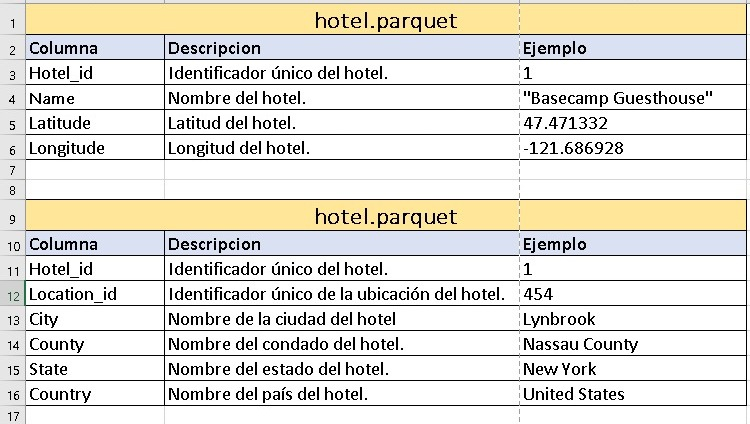
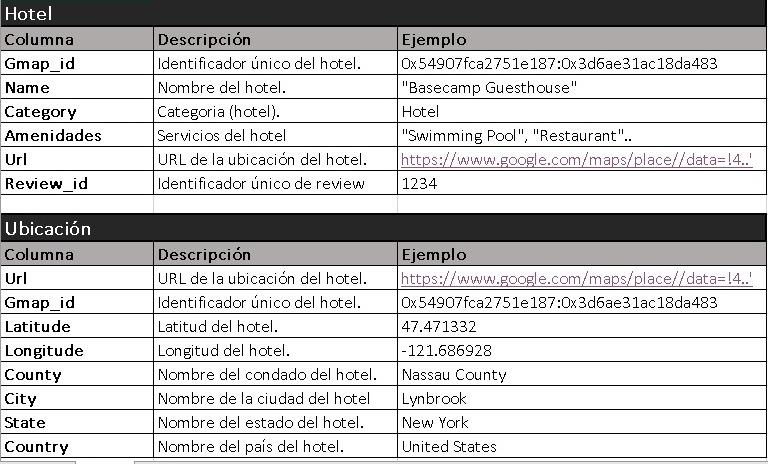
agregar imagenes

diff --git a/README.md b/README.md
@@ -382,17 +382,78 @@ Calcular el Índice de Delitos por Área (IDA) mediante la fórmula proporcionad
 
 El Índice de Delitos por Área (IDA) proporciona una medida relativa de la seguridad en una zona geográfica específica al evaluar la incidencia de delitos en relación con la población total de la zona. Esta métrica es valiosa para que los usuarios puedan tomar decisiones informadas al seleccionar su alojamiento, al proporcionar una perspectiva sobre la seguridad en diferentes áreas.
 
+## **Diccionario de datos**
 
-## Modelo de datos
+---
+
+![wink](imagenes\diccionario.jpeg)
+![wink](imagenes\diccionario2.jpeg)
+
+### Detallado
+
+Hotel:
+
+- Gmap_id (PK): Identificador único del hotel.
+- Name: Nombre del hotel.
+- Category: Categoría del hotel.
+- Amenidades: Servicios del hotel.
+- Url (FK): Clave foránea que referencia a la tabla "Ubicación" mediante la columna "Url".
+- Review_id (FK): Clave foránea que referencia a la tabla "Review" mediante la columna "Review_id".
+
+Ubicación:
+
+- Url (PK): URL de la ubicación del hotel.
+- Gmap_id (FK): Clave foránea que referencia a la tabla "Hotel" mediante la columna "Gmap_id".
+- Latitude: Latitud del hotel.
+- Longitude: Longitud del hotel.
+- County: Nombre del condado del hotel.
+- City: Nombre de la ciudad del hotel.
+- State: Nombre del estado del hotel.
+- Country: Nombre del país del hotel.
+
+Review:
+
+- Review_id (PK): Identificador único de revisión.
+- Time: Fecha del comentario.
+- Text: Comentario (review).
+- Avg_rating: Rating promedio de las revisiones.
+- Num_of_reviews: Número de revisiones.
+- User_id (FK): Clave foránea que referencia a la tabla "Usuario" mediante la columna "User_id".
+- Gmap_id (FK): Clave foránea que referencia a la tabla "Hotel" mediante la columna "Gmap_id".
+
+## **Modelo de datos**
+
+---
+
+Optamos por un modelo relacional para nuestro conjunto de datos con el fin de mantener una estructura organizada y facilitar la recuperación y análisis de información. Este modelo es eficaz tanto para el análisis de datos como para su implementación en una base de datos, gracias a la claridad en las relaciones entre las tablas y la normalización de los datos. Esto nos permite realizar consultas complejas para obtener información detallada sobre hoteles, ubicaciones, opiniones y usuarios, lo cual es fundamental para el desarrollo de nuestra aplicación HotelWise.
+
+<img src = 'imagenes/Modelo ER.png' height='400'>
+
+### Relaciones
+
+* Relación Uno a Uno (1:1) entre Hotel y Ubicación:
+
+La relación se establece a través de la clave primaria en "Ubicación" (Url) y la clave foránea en "Hotel" (Url). Esto significa que cada hotel tiene una única ubicación, y cada ubicación pertenece a un solo hotel.
+
+* Relación Uno a Muchos (1:N) entre Hotel y Review:
+
+La relación se establece a través de la clave primaria en "Hotel" (Gmap_id) y la clave foránea en "Review" (Gmap_id). Un hotel puede tener múltiples revisiones, pero cada revisión está asociada a un solo hotel.
+
+* Relación Uno a Muchos (1:N) entre Review y Usuario:
+
+La relación se establece a través de la clave primaria en "Usuario" (User_id) y la clave foránea en "Review" (User_id). Un usuario puede tener múltiples revisiones, pero cada revisión está asociada a un solo usuario.
 
 
 
-## Dashboard
+
+## **Dashboard**
+
+---
 
 ![wink](imagenes/db.jpeg)
 Link de acceso: https://lookerstudio.google.com/reporting/b6c70dbb-9c99-4710-8eb3-03f883cf818a
 
-## Stack Tecnológico
+## **Stack Tecnológico**
 
 ---
 
